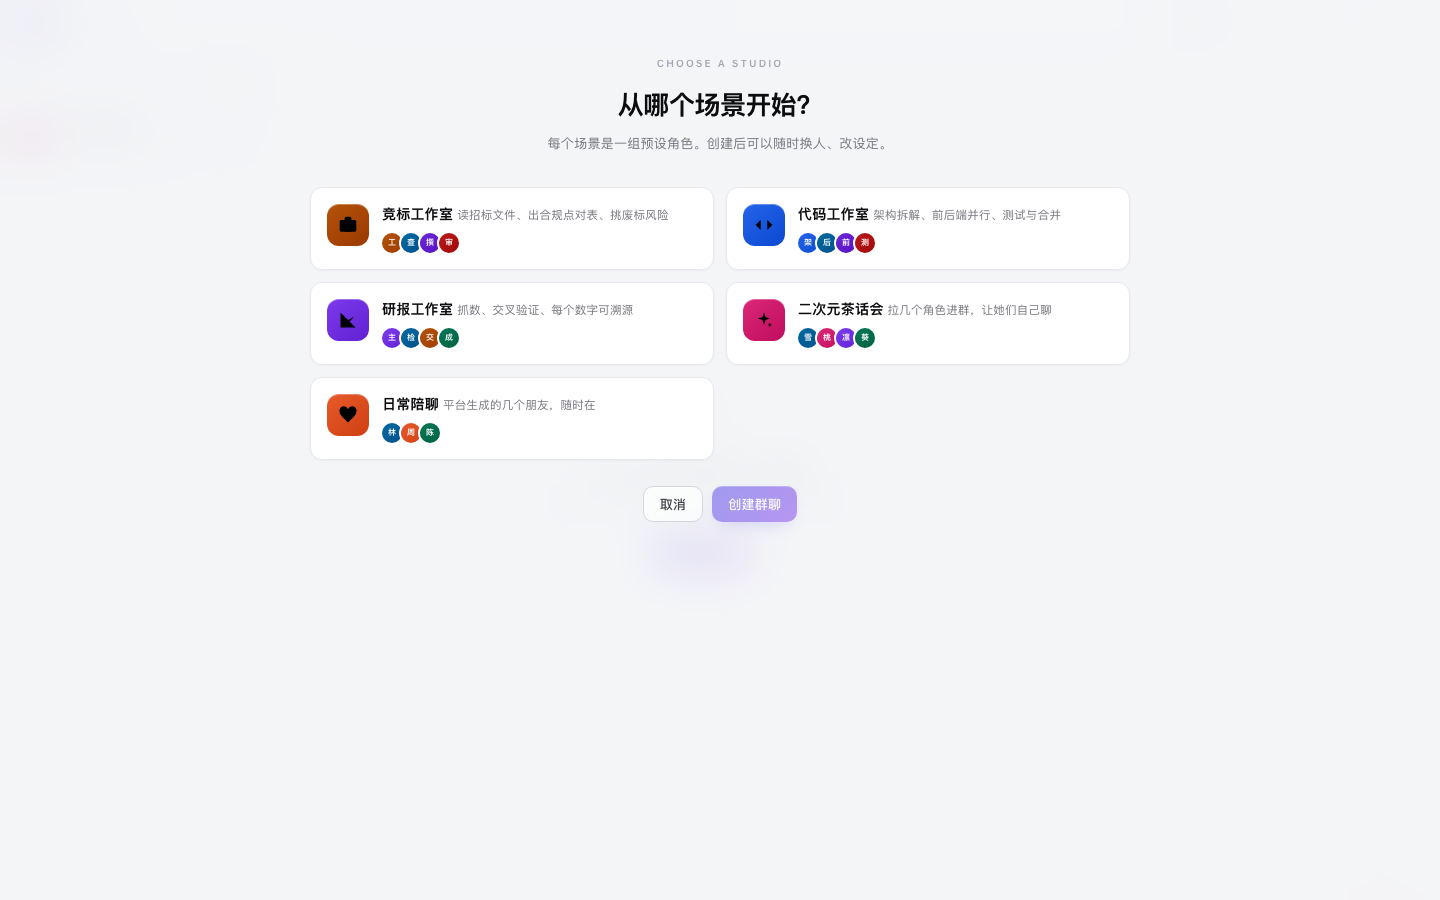
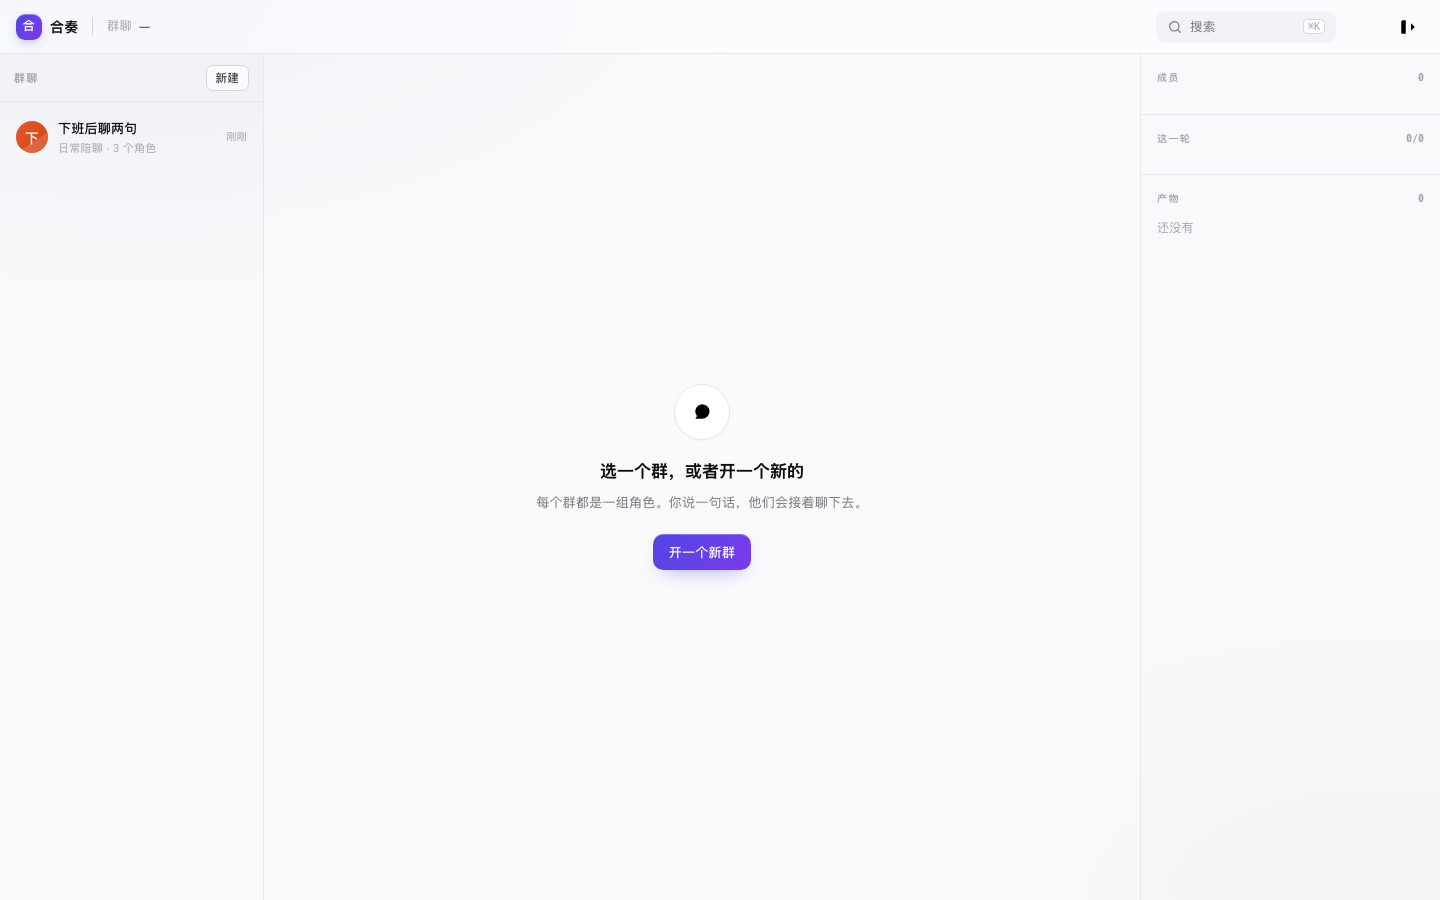
角色头像改几何生成，新群自动开场白
- 头像：名字 hash 决定配色与角落装饰，叠白色首字，24px 仍可读
- 新群创建时由第一个角色说开场白，不再一片空白
- 修图标 SVG 被填充成实心的问题
- 竞标场景复测：审校追问「同类案例」口径、ISO 证书 vs 承诺

diff --git a/web/app/app.js b/web/app/app.js
@@ -69,9 +69,97 @@
     return '#' + c.map(v => v.toString(16).padStart(2, '0')).join('');
   }
 
+  /* 由名字生成稳定的几何头像：背景 + 2~3 个图形。
+     思路参考 Boring Avatars / DiceBear，但不依赖任何外部资源。 */
+  function hashStr(str) {
+    let h = 2166136261;
+    for (let i = 0; i < str.length; i++) {
+      h ^= str.charCodeAt(i);
+      h = Math.imul(h, 16777619);
+    }
+    return h >>> 0;
+  }
+
+  function rng(seed) {
+    let s = seed;
+    return function () {
+      s ^= s << 13; s >>>= 0;
+      s ^= s >> 17;
+      s ^= s << 5; s >>>= 0;
+      return s / 4294967296;
+    };
+  }
+
+  function geoAvatar(name, color) {
+    const seed = hashStr(name || 'x');
+    const r = rng(seed);
+    const pick = arr => arr[Math.floor(r() * arr.length)];
+
+    // 基色：角色色优先，否则由名字推导
+    let base = color;
+    if (!base) {
+      const hue = seed % 360;
+      base = `hsl(${hue} 58% 54%)`;
+    }
+    const tints = [0, 18, -22, 40];
+    const t = tints[Math.floor(r() * tints.length)];
+    const bg = base;
+    const fg = `rgba(255,255,255,.85)`;
+    const fg2 = `rgba(255,255,255,.42)`;
+
+    const variant = Math.floor(r() * 4);
+    let art = '';
+
+    // 角落装饰，不影响首字可读性
+    if (variant === 0) {
+      art = `<circle cx="34" cy="6" r="12" fill="rgba(255,255,255,.16)"/>`;
+    } else if (variant === 1) {
+      art = `<path d="M0 40 L40 14 L40 40 Z" fill="rgba(255,255,255,.16)"/>`;
+    } else if (variant === 2) {
+      art = `<circle cx="6" cy="34" r="11" fill="rgba(255,255,255,.14)"/>`;
+    } else {
+      art = `<rect x="26" y="-6" width="22" height="22" rx="6" fill="rgba(255,255,255,.15)" transform="rotate(20 37 5)"/>`;
+    }
+    const ch = (name || '?').trim().slice(0, 1);
+    art += `<text x="20" y="21" text-anchor="middle" dominant-baseline="central"
+      font-family="-apple-system,BlinkMacSystemFont,PingFang SC,sans-serif"
+      font-size="17" font-weight="600" fill="rgba(255,255,255,.96)">${ch.replace(/[<>&]/g, '')}</text>`;
+
+    return `<svg viewBox="0 0 40 40" xmlns="http://www.w3.org/2000/svg">
+      <defs><linearGradient id="g${seed}" x1="0" y1="0" x2="1" y2="1">
+        <stop offset="0%" stop-color="${bg}"/>
+        <stop offset="100%" stop-color="${shift(hexOf(bg), -26) || bg}"/>
+      </linearGradient></defs>
+      <rect width="40" height="40" fill="url(#g${seed})"/>
+      ${art}
+    </svg>`;
+  }
+
+  // 把 hsl 或 hex 统一成 hex，供 shift 使用
+  function hexOf(c) {
+    if (/^#/.test(c)) return c;
+    const m = /hsl\((\d+)/.exec(c);
+    if (!m) return '#4F46E5';
+    const h = +m[1] / 360;
+    const s = 0.58, l = 0.54;
+    const q = l < 0.5 ? l * (1 + s) : l + s - l * s;
+    const p = 2 * l - q;
+    const hue2rgb = (t) => {
+      if (t < 0) t += 1;
+      if (t > 1) t -= 1;
+      if (t < 1 / 6) return p + (q - p) * 6 * t;
+      if (t < 1 / 2) return q;
+      if (t < 2 / 3) return p + (q - p) * (2 / 3 - t) * 6;
+      return p;
+    };
+    const R = Math.round(hue2rgb(h + 1 / 3) * 255);
+    const G = Math.round(hue2rgb(h) * 255);
+    const B = Math.round(hue2rgb(h - 1 / 3) * 255);
+    return '#' + [R, G, B].map(v => v.toString(16).padStart(2, '0')).join('');
+  }
+
   function makeAv(name, color, cls) {
-    const ch = (name || '?').slice(0, 1);
-    return `<span class="av ${cls || ''}" style="${avatarStyle(name || '', color)}">${esc(ch)}</span>`;
+    return `<span class="av ${cls || ''}">${geoAvatar(name, color)}</span>`;
   }
 
   /* ---------------- API ---------------- */
@@ -280,7 +368,7 @@
       });
       if (!msgs.length) {
         addSysNote('群已建好，说第一句话试试');
-      } else {
+      } else if (msgs.length > 1) {
         pipeDone = state.agents.length;
         renderPipeline(false);
       }

diff --git a/web/app/app.css b/web/app/app.css
@@ -48,9 +48,13 @@ a{color:inherit;text-decoration:none}
 ::-webkit-scrollbar-track{background:transparent}
 
 /* ---------- 图标 ---------- */
-.ic{width:16px;height:16px;flex:0 0 16px;stroke:currentColor;fill:none;stroke-width:1.8;stroke-linecap:round;stroke-linejoin:round}
+.ic{width:16px;height:16px;flex:0 0 16px}
 .ic-18{width:18px;height:18px;flex:0 0 18px}
 .ic-20{width:20px;height:20px;flex:0 0 20px}
+.ic,.ic-18,.ic-20,svg[viewBox]{
+  stroke:currentColor;fill:none;stroke-width:1.8;
+  stroke-linecap:round;stroke-linejoin:round;
+}
 
 /* ---------- 通用按钮 ---------- */
 .btn{
@@ -75,12 +79,11 @@ a{color:inherit;text-decoration:none}
 /* ---------- 头像 ---------- */
 .av{
   width:32px;height:32px;border-radius:50%;flex:0 0 auto;
-  display:grid;place-items:center;
-  font-size:12px;font-weight:600;
-  color:#fff;overflow:hidden;position:relative;
-  box-shadow:inset 0 1px 0 rgba(255,255,255,.3);
-  user-select:none;
+  display:block;overflow:hidden;position:relative;
+  box-shadow:0 0 0 1px rgba(255,255,255,.6), inset 0 1px 0 rgba(255,255,255,.3);
+  user-select:none;background:#DDD;
 }
+.av svg{width:100%;height:100%;display:block}
 .av-sm{width:24px;height:24px;font-size:10px}
 .av-lg{width:40px;height:40px;font-size:14px}
 .av-xl{width:52px;height:52px;font-size:18px}

diff --git a/web/app/index.html b/web/app/index.html
@@ -4,7 +4,7 @@
 <meta charset="UTF-8">
 <meta name="viewport" content="width=device-width,initial-scale=1">
 <title>合奏 Ensemble</title>
-<link rel="stylesheet" href="app.css?v=5">
+<link rel="stylesheet" href="app.css?v=8">
 </head>
 <body>
 
@@ -187,6 +187,6 @@
 
 <div id="toast"></div>
 
-<script src="app.js?v=5"></script>
+<script src="app.js?v=7"></script>
 </body>
 </html>

diff --git a/internal/service/chat.go b/internal/service/chat.go
@@ -40,6 +40,16 @@ func (c *Chat) Create(userID, title, studio, model string, members []string) (*d
 	if err := c.store.CreateConv(conv); err != nil {
 		return nil, err
 	}
+	// 场景有开场白时，由第一个角色先开口，新群不会一片空白
+	if sc, ok := FindScenario(studio); ok && sc.Opening != "" && len(sc.Agents) > 0 {
+		first := sc.Agents[0]
+		_ = c.store.AppendMessage(&domain.Message{
+			ConversationID: conv.ID,
+			Role:           domain.RoleAssistant,
+			Agent:          first.Name,
+			Content:        sc.Opening,
+		})
+	}
 	return conv, nil
 }
 
